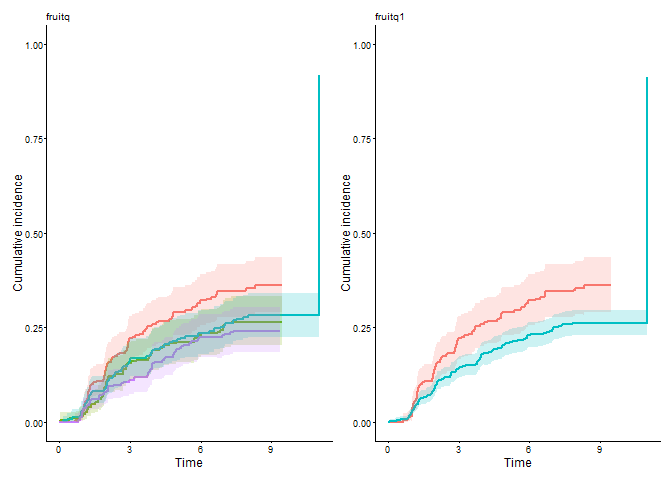
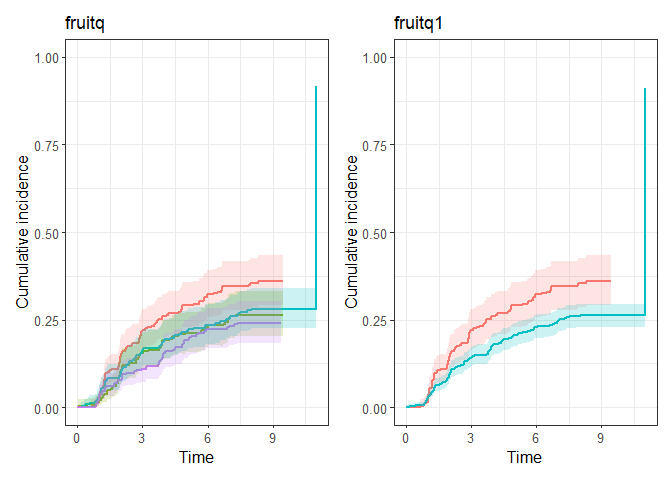
README

diff --git a/README.md b/README.md
@@ -9,7 +9,7 @@
 
 ## Quick start
 
-This package is a compact and unified toolkit for
+This package is a compact and unified toolkit for the
 Kaplan–Meier/Aalen–Johansen curves, visualization, and direct polytomous
 regression for survival and competing risks data.
 
@@ -30,7 +30,7 @@ Aalen–Johansen cumulative incidence curves from cifplot()
 
 </div>
 
-This is an example code snippet applying `cifplot()` to visualize
+This is an example code snippet applying `cifplot()` to visualize the
 Aalen–Johansen cumulative incidence functions (CIFs). In competing risks
 data, censoring is often coded as 0, events of interest as 1, and
 competing risks as 2. The variable `epsilon` in `diabetes.complications`
@@ -39,7 +39,7 @@ this coding scheme. By setting `panel.per.event=TRUE`, the CIF curve for
 diabetic retinopathy (`epsilon=1`) is output on the left and
 macrovascular complications (`epsilon=2`) on the right.
 
-## Three functions for survival and competing risks analysis
+## Tools for survival and competing risks analysis
 
 In clinical and epidemiological research, analysts often need to handle
 censoring, competing risks, and intercurrent events (e.g., treatment
@@ -51,21 +51,20 @@ competing risks data. It covers both nonparametric estimation and
 regression modeling of CIFs, centered around three tightly connected
 functions.
 
-- `cifplot()` typically generates a survival or cumulative incidence
-  curve with marks that represent censoring, competing risks and
-  intercurrent events. Multiple standard error estimators and confidence
-  interval methods are supported. Visualization relies on
-  `ggsurvfit/ggplot2`.
+- `cifplot()` typically generates a survival or CIF curve with marks
+  that represent censoring, competing risks and intercurrent events.
+  Multiple standard error (SE) estimators and confidence interval (CI)
+  methods are supported. Visualization relies on `ggsurvfit/ggplot2`.
 
 - `cifpanel()` generates a multi-panel figure for survival/CIF curves,
   arranged either in a grid layout or as an inset overlay.
 
 - `polyreg()` fits coherent regression models of CIFs based on
-  polytomous log odds products and the stratified IPCW estimator. This
-  function is particularly well-suited for causal inference in terms of
-  typical effect measures, namely risk ratios, odds ratios, and
-  subdistribution hazard ratios, with a competing risks, survival, or
-  binary outcome.
+  polytomous log odds products and the stratified inverse probability of
+  censoring weighting (IPCW) estimator. This function is particularly
+  well-suited for causal inference in terms of typical effect measures,
+  namely risk ratios, odds ratios, and subdistribution hazard ratios,
+  with a competing risks, survival, or binary outcome.
 
 These functions adopt a formula + data syntax, return tidy,
 publication-ready outputs, and integrate seamlessly with `ggsurvfit` and
@@ -74,10 +73,10 @@ publication-ready outputs, and integrate seamlessly with `ggsurvfit` and
 ## Installation
 
 The package is implemented in R and relies on `Rcpp`, `nleqslv` and
-`boot` for the numerical back-end. The examples in this README also use
-`ggplot2`, `ggsurvfit`, `patchwork` and `modelsummary` for tabulation
-and plotting. Install the core package and these companion packages
-with:
+`boot` for the numerical back-end. The examples in this document also
+use `ggplot2`, `ggsurvfit`, `patchwork` and `modelsummary` for
+tabulation and plotting. Install the core package and these companion
+packages with:
 
 ``` r
 install.packages("Rcpp")
@@ -93,13 +92,12 @@ devtools::install_github("gestimation/cifmodeling")
 ## Interoperability
 
 There are several excellent R packages for survival and competing-risk
-analysis. The `survival` package provides the canonical API for
-time-to-event data. In combination with `ggsurvfit`,
-`survival::survfit()` can generate publication-ready survival plots. For
-cumulative incidence (CIF) plots, integration in the general ecosystem
-is not as streamlined; `cifmodeling` fills this gap by offering
-`cifplot()` for survival/CIF plots and multi-panel figures via a single,
-unified interface.
+analysis. The `survival` package provides the canonical API for survival
+data. In combination with `ggsurvfit`, `survival::survfit()` can
+generate publication-ready survival plots. For CIF plots, integration in
+the general ecosystem is not as streamlined; `cifmodeling` fills this
+gap by offering `cifplot()` for survival/CIF plots and multi-panel
+figures via a single, unified interface.
 
 If you need fine-grained plot customization, compute the estimator and
 keep a survfit-compatible object with `cifcurve()` (or supply your own
@@ -108,12 +106,14 @@ other words, use `cifcurve()` for estimation, `cifplot()/cifpanel()` for
 quick high-quality figures, and fall back to the `ggplot` ecosystem when
 you want full artistic control.
 
-For interval estimation, `cifcurve()` mirrors the confidence-interval
-options of `survival::survfit()` for survival curves and adds `delta`
-and `aalen` options for CIFs. The defaults in `cifmodeling` are chosen
-from external and internal simulation evidence; they should be sensible
-for most applications, while still allowing experts to override them
-when needed.
+For interval estimation with unweighted survival data, `cifcurve()`
+mirrors the CI options of `survival::survfit()` (`error="greenwood"` and
+`"tsiatis"`). For weighted survival data, `cifcurve()` adds valid CIs
+and SEs of Xie and Liu (2005), and for competing risk data,
+`error="delta"` and `"aalen"` options. The defaults in `cifmodeling` are
+chosen from external and internal simulation evidence; they should be
+sensible for most applications, while still allowing experts to override
+them when needed.
 
 The `mets` package is a more specialized toolkit that provides advanced
 statistical methods for competing risk analysis.
@@ -150,36 +150,36 @@ You may also pass a survfit-compatible object directly.
 - Call `cifpanel()` with a simplified code to create a panel displaying
   plots of multiple stratified survival/CIF curves or CIF curves for
   each event type.
-- Add confidence intervals and censor/competing-risk/intercurrent-event
-  marks.
+- Add CIs and censor/competing-risk/intercurrent-event marks.
 - Add a risk table to display the number at risk or the estimated
-  survival probabilities or CIFs and 95% confidence intervals at each
-  point in time.
+  survival probabilities or CIFs and CIs at each point in time.
 
 **Key arguments shared with cifcurve()**
 
 - **Outcome type and estimator**
-  - `formula` A model formula specifying the time-to-event outcome on
-    the left-hand side (`Event(time, status)` or `Surv(time, status)`)
-    and, optionally, a stratification variable on the right-hand side.
+  - `formula` A model formula specifying the outcome
+    (`Event(time, status)` or `Surv(time, status)`) on the left-hand
+    side (LHS) and, optionally, a stratification variable on the
+    right-hand side (RHS).
   - `outcome.type = "survival"` → Kaplan–Meier estimator
   - `outcome.type = "competing-risk"` → Aalen–Johansen estimator
 - **Confidence intervals**
   - `conf.int` sets the two-sided level (default 0.95)  
   - `conf.type` chooses the transformation (`"arcsine-square root"`,
     `"plain"`, `"log"`, `"log-log"`, `"logit"`, or `"none"`)
-  - `error` chooses the estimator for standard error (`"greenwood"` or
-    `"tsiatis"` for survival curves and `"delta"` or `"aalen"` for CIFs)
+  - `error` chooses the estimator for SE (`"greenwood"` or `"tsiatis"`
+    for survival curves and `"delta"` or `"aalen"` for CIFs)
 
 **Key arguments for cifplot()**
 
 - **Data visualization**
-  - `add.conf` adds confidence intervals on the ggplot2-based plot
+  - `add.conf` adds CIs on the ggplot2-based plot
   - `add.competing.risk.mark` and `add.intercurrent.event.mark` add
     symbols to describe competing risks or intercurrent events in
     addition to conventional censoring marks with `add.censor.mark`
   - `add.risktable` adds numbers at risk
-  - `add.estimate.table` adds estimates and 95% confidence interval
+  - `add.estimate.table` adds estimated survival probabilities or CIFs
+    and CIs at each point in time
   - `add.quantile` adds a line that represents the median or a selected
     quantile level
 - **Plot customization**
@@ -187,16 +187,17 @@ You may also pass a survfit-compatible object directly.
     1-survival/CIF)
   - `limits.x`, `limits.y`, `breaks.x`, `breaks.y` numeric vectors for
     axis control
-  - `style` specifies the appearance of plot (`"CLASSIC"`, `"BOLD"`,
-    `"FRAMED"`, `"GRID"`, `"GRAY"` or `"GGSURVFIT"`)
+  - `style` specifies the appearance of plot (`"classsic"`, `"bold"`,
+    `"framed"`, `"grid"`, `"gray"` or `"ggsurvfit"`)
   - `palette` specifies color of each curve
     (e.g. `palette=c("blue1", "cyan3", "navy", "deepskyblue3"))`)
 - **Panel display**
   - `panel.per.variable` produces multiple survival/CIF curves per
     stratification variable specified in the formula
   - `panel.per.event` produces CIF curves for each event type
-  - `panel.censoring` produces KM-type curves for (event, censor) and
-    (censor, event) so that censoring patterns can be inspected
+  - `panel.censoring` produces the Kaplan–Meier curves for (event,
+    censor) and (censor, event) so that censoring patterns can be
+    inspected
   - `panel.mode` uses automatic panel mode
 
 **Return**
@@ -210,12 +211,10 @@ which calculates the Kaplan–Meier estimator and the Aalen–Johansen
 estimator. `cifcurve()` returns a survfit-compatible object, enabling an
 independent use of standard methods such as:
 
-- `summary()` — time-by-time estimates with standard errors and
-  confidence intervals
+- `summary()` — time-by-time estimates with SEs and CIs
 - `plot()` — base R stepwise survival/CIF curves
-- `mean()` — restricted mean survival estimates with confidence
-  intervals
-- `quantile()` — quantile estimates with confidence intervals
+- `mean()` — restricted mean survival estimates with CIs
+- `quantile()` — quantile estimates with CIs
 
 Furthermore, the cifmodeling package provides a workflow for a
 **ggplot2-based visualization** based on the survfit-compatible objects
@@ -254,7 +253,8 @@ layout.
 
 **Return**
 
-- A **patchwork** object (still ggplot-compatible).
+- A List that in contains **patchwork** object (still
+  ggplot-compatible).
 
 **An example of usage**
 
@@ -332,7 +332,7 @@ cifpanel(
 
 ### polyreg()
 
-`polyreg()` implements **log odds product modeling** of CIFs at
+This function implements **log odds product modeling** of CIFs at
 user-specified time points, focusing on multiplicative effects of a
 categorical exposure, or constant effects over time like Cox regression
 and Fine-Gray models. It estimates multiplicative effects such as **risk
@@ -386,15 +386,14 @@ complications (event 2) at 8 years of follow-up is demonstrated. To
 visualize each covariate separately when multiple strata are supplied,
 set `panel.per.variable = TRUE`. Each variable on the right-hand side is
 plotted in its own panel, and the layout can be controlled with
-`rows.columns.panel`. The figure below contrasts the cumulative
-incidence curves of diabetic retinopathy for the quartiles `fruitq` and
-a binary exposure `fruitq1`, low (Q1) and high (Q2 to 4) intake of
-fruit, generated by `cifplot()`. The `add.conf=TRUE` argument adds
-confidence intervals to the plot. This helps visualize the statistical
-uncertainty of estimated probabilities across exposure levels. When
-using numeric variables for stratification, discretize them beforehand
-with `cut()` or `factor()`. The labels of x-axis (Time) and y-axis
-(Cumulative incidence) in these panels are default labels.
+`rows.columns.panel`. The figure below contrasts the CIFs of diabetic
+retinopathy for the quartiles `fruitq` and a binary exposure `fruitq1`,
+low (Q1) and high (Q2 to 4) intake of fruit, generated by `cifplot()`.
+The `add.conf=TRUE` argument adds CIs to the plot. This helps visualize
+the statistical uncertainty of estimated probabilities across exposure
+levels. When using numeric variables for stratification, discretize them
+beforehand with `cut()` or `factor()`. The labels of x-axis (Time) and
+y-axis (Cumulative incidence) in these panels are default labels.
 
 ``` r
 data(diabetes.complications)
@@ -424,10 +423,10 @@ frequency of censoring, allowing a clearer understanding of
 loss-to-censoring patterns over follow-up. Here the workflow differs
 slightly from the previous code. First, we compute a survfit-compatible
 object `output1` using `cifcurve()` with `outcome.type="competing-risk"`
-by calculating Aalen–Johansen estimator stratified by `fruitq1`. Then,
-`cifplot()` is used to generate the figure. The `label.y`, `label.x` and
-`limit.x` arguments are also used to customize the axis labels and
-limits.
+by calculating the Aalen–Johansen estimator stratified by `fruitq1`.
+Then, `cifplot()` is used to generate the figure. The `label.y`,
+`label.x` and `limit.x` arguments are also used to customize the axis
+labels and limits.
 
 ``` r
 output1 <- cifcurve(Event(t,epsilon)~fruitq1, data=diabetes.complications, 
@@ -478,7 +477,7 @@ Cumulative incidence curves with competing risk marks
 
 </div>
 
-`label.strata` is another argument for customizing labels, but when
+The `label.strata` is another argument for customizing labels, but when
 inputting a survfit object, it becomes invalid because it does not
 contain stratum information. Therefore, the following code inputs the
 formula and data. `label.strata` is used by combining `level.strata` and
@@ -486,7 +485,7 @@ formula and data. `label.strata` is used by combining `level.strata` and
 stratification variable corresponding to each label in `label.strata`.
 The levels specified in `level.strata` are then displayed in the figure
 in the order defined by `order.strata`. A figure enclosed in a square
-was generated, which is due to `style="FRAMED"` specification.
+was generated, which is due to `style="framed"` specification.
 
 ``` r
 cifplot(Event(t,epsilon)~fruitq1, data=diabetes.complications, 
@@ -495,7 +494,7 @@ cifplot(Event(t,epsilon)~fruitq1, data=diabetes.complications,
         competing.risk.time=output2, label.y="CIF of diabetic retinopathy", 
         label.x="Years from registration", limits.x=c(0,8),
         label.strata=c("High intake","Low intake"), level.strata=c("Q2 to Q4","Q1"), 
-        order.strata=c("Q1", "Q2 to Q4"), style="FRAMED")
+        order.strata=c("Q1", "Q2 to Q4"), style="framed")
 ```
 
 <div class="figure">
@@ -509,16 +508,15 @@ Cumulative incidence curves with strata labels and FRAMED style
 </div>
 
 By specifying `add.estimate.table=TRUE`, the risks of diabetic
-retinopathy (estimates for CIFs) along with their confidence interval
-are shown in the table at the bottom of the figure The risk ratios at a
-specific time point (e.g. 8 years) for competing events can be jointly
-and coherently estimated using `polyreg()` with
-`outcome.type="competing-risk"`. In the code of `polyreg()` below, no
-covariates are included in the nuisance model (`~1` specifies intercept
-only). The effect of low fruit intake `fruitq1` is estimated as an
-unadjusted risk ratio (`effect.measure1="RR"`) for diabetic retinopathy
-(event 1) and macrovascular complications (event 2) at 8 years
-(`time.point=8`).
+retinopathy (estimates for CIFs) along with their CIs are shown in the
+table at the bottom of the figure The risk ratios at a specific time
+point (e.g. 8 years) for competing events can be jointly and coherently
+estimated using `polyreg()` with `outcome.type="competing-risk"`. In the
+code of `polyreg()` below, no covariates are included in the nuisance
+model (`~1` specifies intercept only). The effect of low fruit intake
+`fruitq1` is estimated as an unadjusted risk ratio
+(`effect.measure1="RR"`) for diabetic retinopathy (event 1) and
+macrovascular complications (event 2) at 8 years (`time.point=8`).
 
 ``` r
 output3 <- polyreg(nuisance.model=Event(t,epsilon)~1, exposure="fruitq1", 
@@ -545,7 +543,7 @@ are included in summary by setting `report.nuisance.parameter = TRUE`.
 Model summaries can also be exponentiated to display risk ratios, odds
 ratios, or subdistribution hazard ratios using `exponentiate` option.
 The summaries can be displayed in the Viewer with customized statistics
-such as p-values or confidence intervals.
+such as p-values or CIs.
 
 ## Example 2. Survival analysis
 
